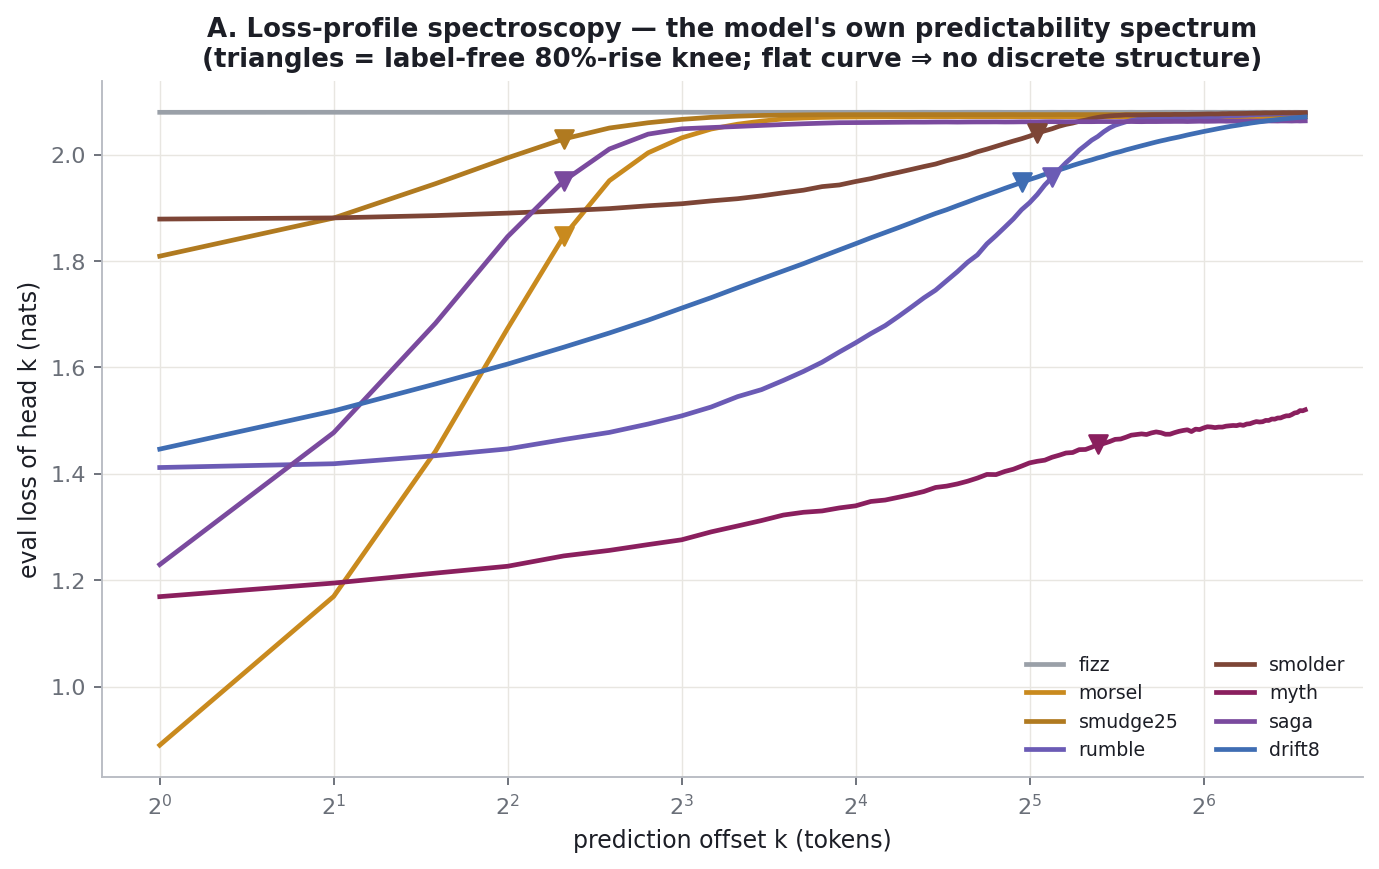
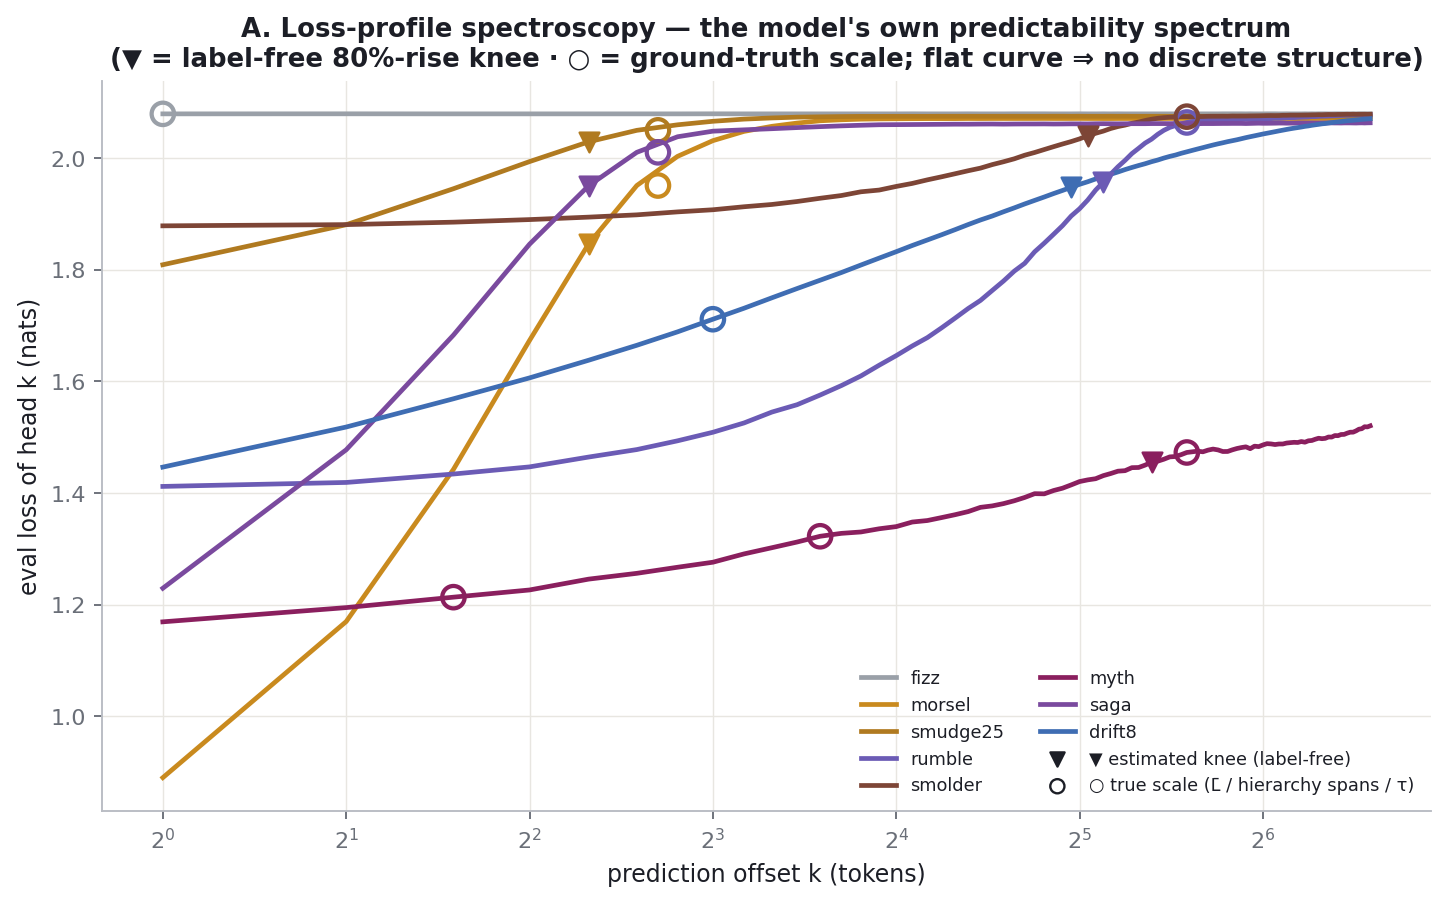
dotling: mark ground-truth scales on loss-profile spectroscopy figure

diff --git a/psi2/dotling/discovery/index.html b/psi2/dotling/discovery/index.html
@@ -75,7 +75,7 @@ half-life of the smoothed state estimates the slow timescale itself, label-free.
 <th>B: boundary F1</th><th>B: discovered mean unit length</th>
 <th>C: unit NMI (disc. / oracle)</th><th>D: topic NMI</th>
 <th>D: slow half-life (tok)</th></tr>
-<tr><td><b>morsel</b></td><td>6.5</td><td>5</td><td>0.953 (entropy; surp 0.868 / ent 0.953)</td><td>5.83</td><td>0.746 / 0.785</td><td>—</td><td>81</td></tr><tr><td><b>rumble</b></td><td>48</td><td>35</td><td>0.279 (surprisal; surp 0.279 / ent 0.244)</td><td>8.03</td><td>0.27 / 0.727</td><td>—</td><td>81</td></tr><tr><td><b>smolder</b></td><td>48</td><td>33</td><td>0.143 (entropy; surp 0.129 / ent 0.143)</td><td>4.23</td><td>0.175 / 0.59</td><td>—</td><td>71</td></tr><tr><td><b>myth</b></td><td>3</td><td>42</td><td>0.773 (entropy; surp 0.703 / ent 0.773)</td><td>4.31</td><td>0.257 / 0.419</td><td>—</td><td>61</td></tr><tr><td><b>saga</b></td><td>6.5</td><td>5</td><td>0.982 (entropy; surp 0.889 / ent 0.982)</td><td>6.25</td><td>0.621 / 0.629</td><td>0.834</td><td>81</td></tr><tr><td><b>drift8</b></td><td>8</td><td>31</td><td>0.829 (surprisal; surp 0.829 / ent 0.814)</td><td>3.77</td><td>— / —</td><td>—</td><td>91</td></tr></table>
+<tr><td><b>morsel</b></td><td>6.5</td><td>5</td><td>0.953 (entropy; surp 0.868 / ent 0.953)</td><td>5.83</td><td>0.746 / 0.785</td><td>—</td><td>81</td></tr><tr><td><b>rumble</b></td><td>48</td><td>35</td><td>0.279 (surprisal; surp 0.279 / ent 0.244)</td><td>8.03</td><td>0.27 / 0.727</td><td>—</td><td>81</td></tr><tr><td><b>smolder</b></td><td>48</td><td>33</td><td>0.143 (entropy; surp 0.129 / ent 0.143)</td><td>4.23</td><td>0.175 / 0.59</td><td>—</td><td>71</td></tr><tr><td><b>myth</b></td><td>3</td><td>42</td><td>0.773 (entropy; surp 0.703 / ent 0.773)</td><td>4.31</td><td>0.257 / 0.419</td><td>—</td><td>61</td></tr><tr><td><b>saga</b></td><td>6.5</td><td>5</td><td>0.982 (entropy; surp 0.889 / ent 0.982)</td><td>6.25</td><td>0.621 / 0.629</td><td>0.834</td><td>81</td></tr><tr><td><b>drift8</b></td><td>8</td><td>31</td><td>0.829 (surprisal; surp 0.829 / ent 0.814)</td><td>3.77</td><td>— / —</td><td>—</td><td>91</td></tr><tr><td><b>thicket</b></td><td>10</td><td>— (flat)</td><td>— (—; surp — / ent —)</td><td>—</td><td>— / —</td><td>—</td><td>—</td></tr><tr><td><b>thicket</b></td><td>10</td><td>— (flat)</td><td>— (—; surp — / ent —)</td><td>—</td><td>— / —</td><td>—</td><td>—</td></tr><tr><td><b>thicket</b></td><td>10</td><td>— (flat)</td><td>— (—; surp — / ent —)</td><td>—</td><td>— / —</td><td>—</td><td>—</td></tr><tr><td><b>thicket</b></td><td>10</td><td>— (flat)</td><td>— (—; surp — / ent —)</td><td>—</td><td>— / —</td><td>—</td><td>—</td></tr><tr><td><b>thicket</b></td><td>10</td><td>— (flat)</td><td>— (—; surp — / ent —)</td><td>—</td><td>— / —</td><td>—</td><td>—</td></tr><tr><td><b>thicket</b></td><td>10</td><td>— (flat)</td><td>— (—; surp — / ent —)</td><td>—</td><td>— / —</td><td>—</td><td>—</td></tr><tr><td><b>thicket</b></td><td>10</td><td>— (flat)</td><td>— (—; surp — / ent —)</td><td>—</td><td>— / —</td><td>—</td><td>—</td></tr></table>
 <p class="muted">drift8 is the negative control: a structured-looking continuous
 stream where the pipeline should — and does — report no discrete units.</p>
 </section>
